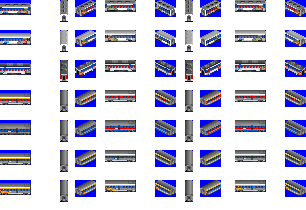
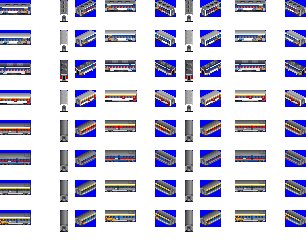
Add #141: 무궁화호 구 식당차

diff --git a/docs/download_page/korean.html b/docs/download_page/korean.html
@@ -270,8 +270,8 @@
         <td class="introduction">1972</td>
     </tr>
     <tr data-veh_id="CAFE_CAR">
-        <td class="refit"><div><img src="./_static/CAFE_CAR_MUGUNGHWA_1.png" alt="카페 객차"><br /><img src="./_static/CAFE_CAR_MUGUNGHWA_2.png" alt="카페 객차"><br /><img src="./_static/CAFE_CAR_RDC.png" alt="카페 객차"><br /><img src="./_static/CAFE_CAR_MUGUNGHWA_STREAMLINED.png" alt="카페 객차"><br /><img src="./_static/CAFE_CAR_DHC_1.png" alt="카페 객차"><br /><img src="./_static/CAFE_CAR_DHC_2.png" alt="카페 객차"><br /><img src="./_static/CAFE_CAR_DHC_3.png" alt="카페 객차"></div></td>
-        <td class="name">카페 객차</td>
+        <td class="refit"><div><img src="./_static/CAFE_CAR_MUGUNGHWA_1.png" alt="카페/식당 객차"><br /><img src="./_static/CAFE_CAR_MUGUNGHWA_2.png" alt="카페/식당 객차"><br /><img src="./_static/CAFE_CAR_RDC.png" alt="카페/식당 객차"><br /><img src="./_static/CAFE_CAR_MUGUNGHWA_3.png" alt="카페/식당 객차"><br /><img src="./_static/CAFE_CAR_MUGUNGHWA_STREAMLINED.png" alt="카페/식당 객차"><br /><img src="./_static/CAFE_CAR_DHC_1.png" alt="카페/식당 객차"><br /><img src="./_static/CAFE_CAR_DHC_2.png" alt="카페/식당 객차"><br /><img src="./_static/CAFE_CAR_DHC_3.png" alt="카페/식당 객차"></div></td>
+        <td class="name">카페/식당 객차</td>
         <td class="speed">120 km/h</td>
         <td class="speed_designed">120 km/h</td>
         <td class="capacity">50</td>

diff --git a/docs/download_page/english.html b/docs/download_page/english.html
@@ -270,8 +270,8 @@
         <td class="introduction">1972</td>
     </tr>
     <tr data-veh_id="CAFE_CAR">
-        <td class="refit"><div><img src="./_static/CAFE_CAR_MUGUNGHWA_1.png" alt="Cafe car"><br /><img src="./_static/CAFE_CAR_MUGUNGHWA_2.png" alt="Cafe car"><br /><img src="./_static/CAFE_CAR_RDC.png" alt="Cafe car"><br /><img src="./_static/CAFE_CAR_MUGUNGHWA_STREAMLINED.png" alt="Cafe car"><br /><img src="./_static/CAFE_CAR_DHC_1.png" alt="Cafe car"><br /><img src="./_static/CAFE_CAR_DHC_2.png" alt="Cafe car"><br /><img src="./_static/CAFE_CAR_DHC_3.png" alt="Cafe car"></div></td>
-        <td class="name">Cafe car</td>
+        <td class="refit"><div><img src="./_static/CAFE_CAR_MUGUNGHWA_1.png" alt="Cafe/Restaurant car"><br /><img src="./_static/CAFE_CAR_MUGUNGHWA_2.png" alt="Cafe/Restaurant car"><br /><img src="./_static/CAFE_CAR_RDC.png" alt="Cafe/Restaurant car"><br /><img src="./_static/CAFE_CAR_MUGUNGHWA_3.png" alt="Cafe/Restaurant car"><br /><img src="./_static/CAFE_CAR_MUGUNGHWA_STREAMLINED.png" alt="Cafe/Restaurant car"><br /><img src="./_static/CAFE_CAR_DHC_1.png" alt="Cafe/Restaurant car"><br /><img src="./_static/CAFE_CAR_DHC_2.png" alt="Cafe/Restaurant car"><br /><img src="./_static/CAFE_CAR_DHC_3.png" alt="Cafe/Restaurant car"></div></td>
+        <td class="name">Cafe/Restaurant car</td>
         <td class="speed">120 km/h</td>
         <td class="speed_designed">120 km/h</td>
         <td class="capacity">50</td>
